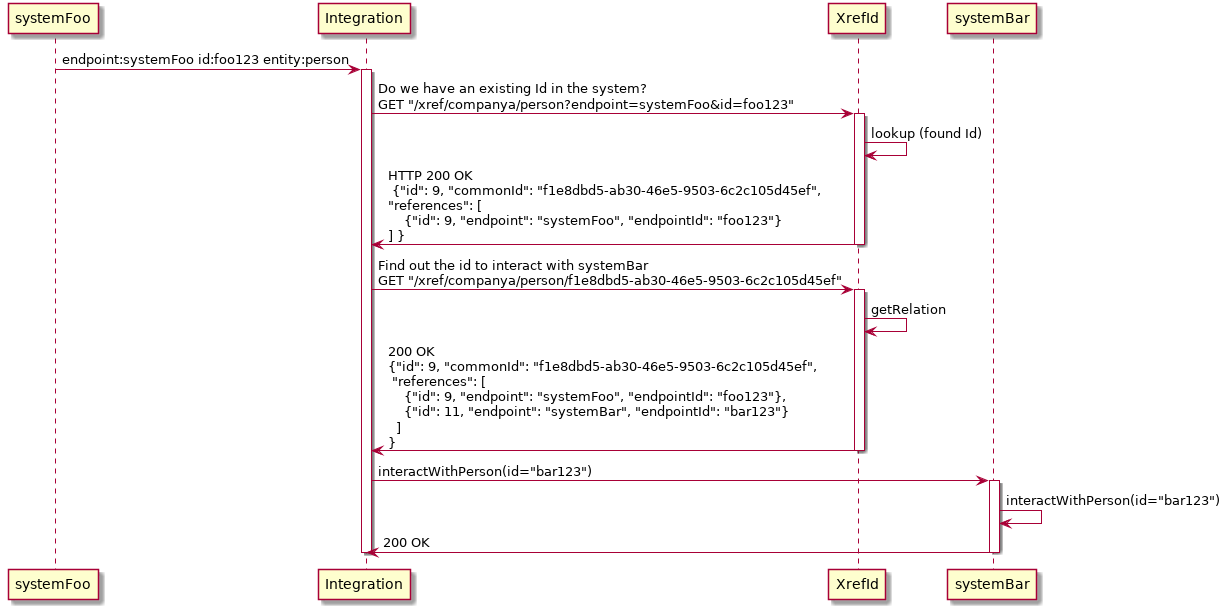
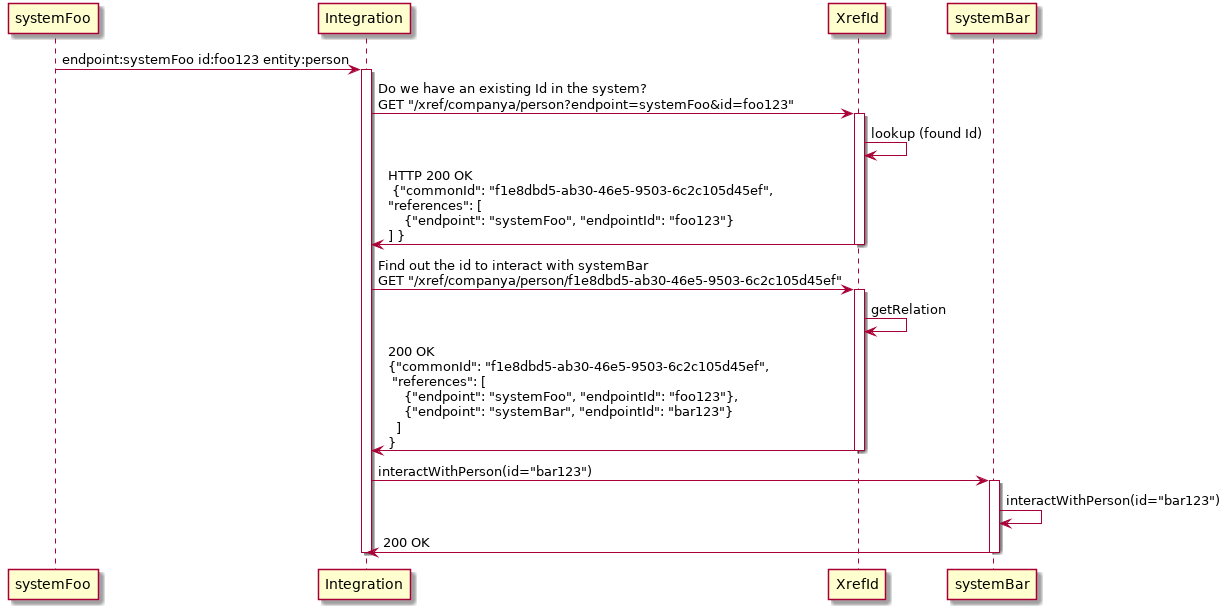
using JsonView to ignore the database ids

Changed region(s): [[0.3396, 0.2808, 0.6483, 0.3744], [0.3087, 0.5928, 0.6483, 0.6864]]

diff --git a/src/main/java/com/nullendpoint/xref/Relation.java b/src/main/java/com/nullendpoint/xref/Relation.java
@@ -1,4 +1,5 @@
 package com.nullendpoint.xref;
+import com.fasterxml.jackson.annotation.JsonIgnore;
 import com.fasterxml.jackson.annotation.JsonIgnoreProperties;
 
 import java.util.ArrayList;
@@ -8,7 +9,9 @@ import java.util.List;
 public class Relation {
 
 
+    @JsonIgnore
 	private Integer id;
+
     private String commonId;
     private List<Reference> references;
 
@@ -98,15 +101,18 @@ public class Relation {
 @JsonIgnoreProperties(ignoreUnknown = true)
 public static class Reference {
 
+        @JsonIgnore
     	private Integer id;
+
         private String endpoint;
         private String endpointId;
 
-
+        @JsonIgnore
         public Integer getId() {
 			return id;
 		}
 
+        @JsonIgnore
 		public void setId(Integer id) {
 			this.id = id;
 		}

diff --git a/README.md b/README.md
@@ -4,16 +4,13 @@ A simple cross-referencing service for storing ids across different systems.
 
 ```$json
 {
-  "id": 5,
   "commonID": "ace664a0-1d28-412a-9ea5-0bbf5739f4ce",
   "references": [
     {
-      "id": 7,
       "endpoint": "idm",
       "endpointId": "test.user"
     },
     {
-      "id": 8,
       "endpoint": "doie",
       "endpointId": "22311415"
     }
@@ -42,7 +39,7 @@ When a system no longer has an entity, the reference to that entity in the XRef 
 
 - Documentation: Create sample flow diagrams
 - Documentation: Explain flow
-- JSONView for the Jackson output (no db ids)
+- JSONView for the Jackson output (no db ids) - done.
 - Run on Openshift (template)
 - Create H2 version to run unit tests against.
 - Create sample scenario in unit test
